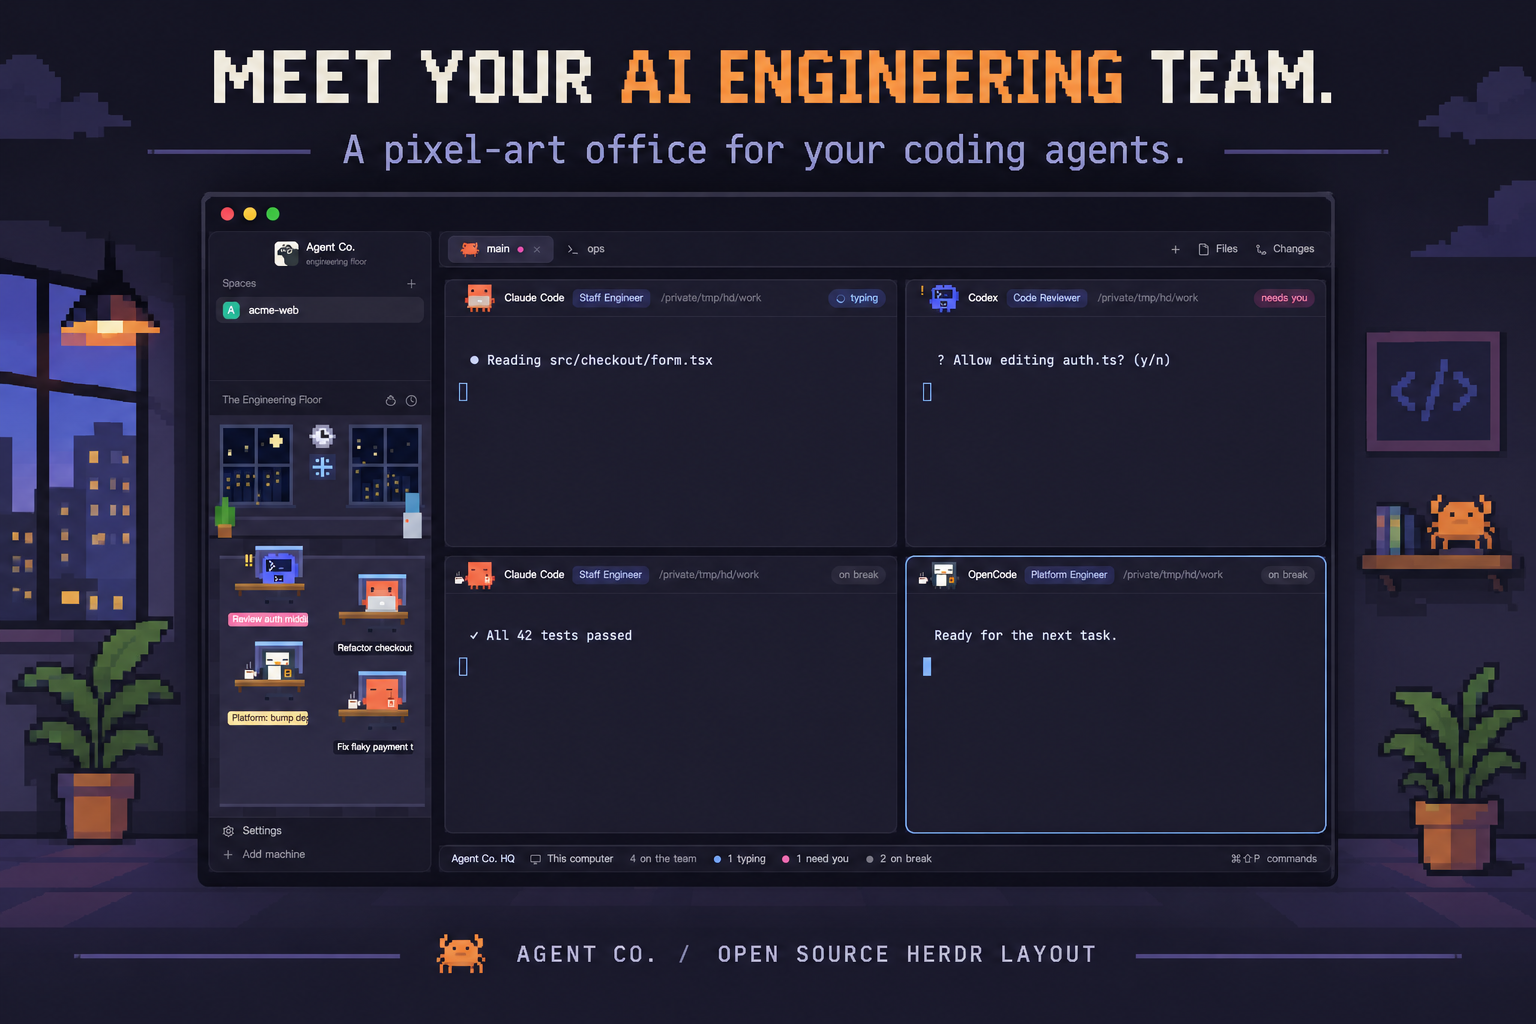
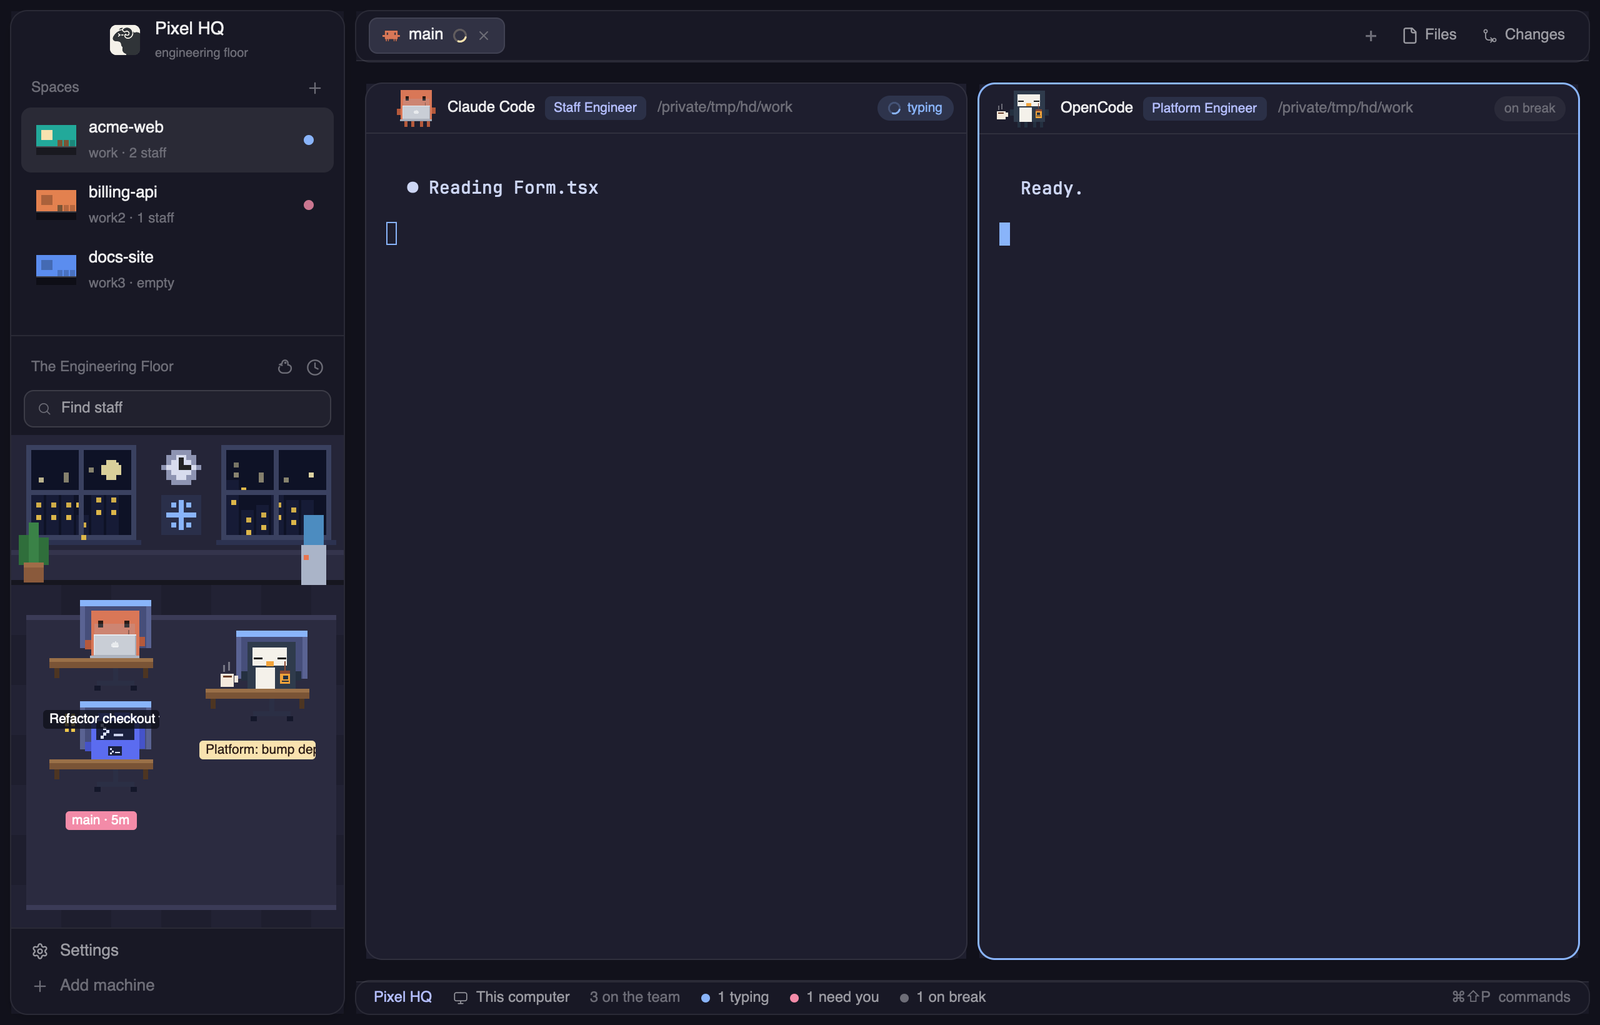
README and preview: use the real, current screenshot and the live demo

diff --git a/README.md b/README.md
@@ -6,17 +6,13 @@
 </p>
 
 <p align="center">
-  <img src="preview.png" alt="Pixel HQ layout for Herdr: an office of pixel pets in the sidebar, desk nameplates on every pane, a team status bar" width="900">
+  <img src="preview.png" alt="Pixel HQ for Herdr: floors in the Spaces list, an office of pixel pets below it, desk nameplates on every pane and a team status bar" width="900"><br>
+  <sub>A real screenshot of the layout (demo data only).</sub>
 </p>
 
 <p align="center">
-  <img src="demo.gif" alt="The engineering floor in motion: pets type at their desks and step out beside them on a break" width="320"><br>
-  <sub>The floor, live: pets type, step away from the desk on a break and come right back.</sub>
-</p>
-
-<p align="center">
-  <img src="screenshot.png" alt="A real screenshot of the layout" width="900"><br>
-  <sub>A real screenshot (demo data only).</sub>
+  <img src="demo.gif" alt="The sidebar in motion: floors with live status, pets typing at their desks and stepping out beside them on a break" width="320"><br>
+  <sub>The sidebar, live: floors with a status dot, pets typing at their desks and stepping out for a moment on a break.</sub>
 </p>
 
 ## What you get
